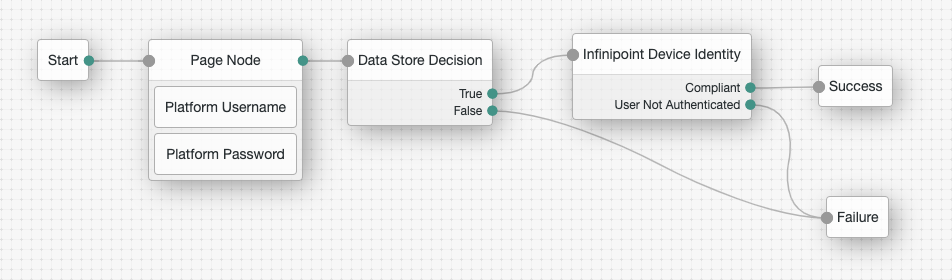
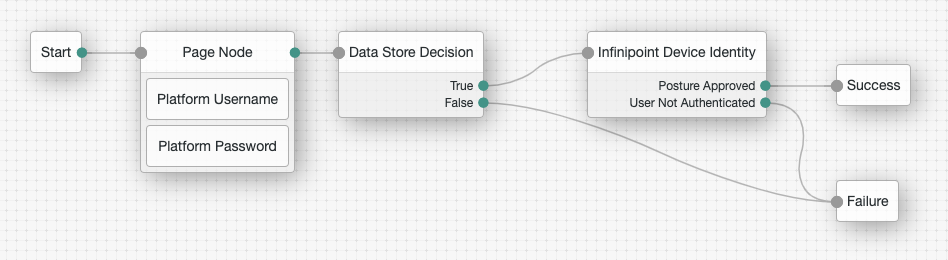
minor improvements

diff --git a/src/main/java/io/infinipoint/DIaaSAuthNode/InfinipointDIaaS.java b/src/main/java/io/infinipoint/DIaaSAuthNode/InfinipointDIaaS.java
@@ -17,60 +17,31 @@
 
 package io.infinipoint.DIaaSAuthNode;
 
-import static java.util.Collections.singleton;
-import static java.util.Collections.singletonList;
-import static java.util.Collections.singletonMap;
-import static org.forgerock.json.JsonValue.field;
-import static org.forgerock.json.JsonValue.json;
-import static org.forgerock.json.JsonValue.object;
-import static org.forgerock.oauth.OAuthClientConfiguration.PROVIDER;
-import static org.forgerock.oauth.clients.oauth2.OAuth2Client.DATA;
-import static org.forgerock.oauth.clients.oauth2.OAuth2Client.LANDING_PAGE;
-import static org.forgerock.oauth.clients.oauth2.OAuth2Client.PKCE_CODE_VERIFIER;
-import static org.forgerock.oauth.clients.oauth2.OAuth2Client.STATE;
-import static org.forgerock.oauth.clients.oidc.OpenIDConnectClient.NONCE;
-import static org.forgerock.openam.auth.node.api.Action.goTo;
-import static org.forgerock.openam.auth.node.api.Action.send;
-import static org.forgerock.openam.auth.node.api.SharedStateConstants.USERNAME;
-import static org.forgerock.openam.auth.nodes.oauth.SocialOAuth2Helper.DEFAULT_OAUTH2_SCOPE_DELIMITER;
-
-import java.io.IOException;
-import java.io.InputStream;
-import java.math.BigInteger;
-import java.net.MalformedURLException;
-import java.net.URI;
-import java.net.URISyntaxException;
-import java.net.URL;
-import java.security.SecureRandom;
-import java.util.Collections;
-import java.util.Date;
-import java.util.HashMap;
-import java.util.List;
-import java.util.Map;
-import java.util.Scanner;
-import java.util.Set;
-
-import javax.inject.Inject;
-
+import com.google.common.collect.ImmutableList;
+import com.google.inject.assistedinject.Assisted;
+import com.iplanet.am.util.SystemProperties;
+import com.nimbusds.oauth2.sdk.ResponseType;
+import com.nimbusds.oauth2.sdk.Scope;
+import com.nimbusds.oauth2.sdk.auth.Secret;
+import com.nimbusds.oauth2.sdk.client.ClientInformation;
+import com.nimbusds.oauth2.sdk.client.ClientMetadata;
+import com.nimbusds.oauth2.sdk.id.ClientID;
+import com.nimbusds.oauth2.sdk.id.State;
+import com.nimbusds.openid.connect.sdk.AuthenticationRequest;
+import com.nimbusds.openid.connect.sdk.Nonce;
+import com.sun.identity.authentication.spi.AuthLoginException;
+import com.sun.identity.authentication.spi.RedirectCallback;
+import com.sun.identity.shared.Constants;
+import com.sun.identity.sm.RequiredValueValidator;
 import org.apache.commons.lang.StringUtils;
-import org.apache.http.client.utils.URIBuilder;
 import org.forgerock.json.JsonValue;
 import org.forgerock.json.jose.jwt.JwtClaimsSet;
-import org.forgerock.oauth.DataStore;
-import org.forgerock.oauth.OAuthClient;
-import org.forgerock.oauth.OAuthClientConfiguration;
-import org.forgerock.oauth.OAuthException;
-import org.forgerock.oauth.UserInfo;
+import org.forgerock.oauth.*;
 import org.forgerock.oauth.clients.oauth2.PkceMethod;
 import org.forgerock.oauth.clients.oidc.OpenIDConnectClientConfiguration;
 import org.forgerock.oauth.clients.oidc.OpenIDConnectUserInfo;
 import org.forgerock.openam.annotations.sm.Attribute;
-import org.forgerock.openam.auth.node.api.Action;
-import org.forgerock.openam.auth.node.api.ExternalRequestContext;
-import org.forgerock.openam.auth.node.api.Node;
-import org.forgerock.openam.auth.node.api.NodeProcessException;
-import org.forgerock.openam.auth.node.api.OutcomeProvider;
-import org.forgerock.openam.auth.node.api.TreeContext;
+import org.forgerock.openam.auth.node.api.*;
 import org.forgerock.openam.auth.nodes.oauth.AbstractSocialAuthLoginNode;
 import org.forgerock.openam.auth.nodes.oauth.ProfileNormalizer;
 import org.forgerock.openam.auth.nodes.oauth.SharedStateAdaptor;
@@ -83,24 +54,21 @@ import org.forgerock.util.i18n.PreferredLocales;
 import org.slf4j.Logger;
 import org.slf4j.LoggerFactory;
 
-import com.google.common.collect.ImmutableList;
-import com.google.inject.assistedinject.Assisted;
-import com.iplanet.am.util.SystemProperties;
-import com.nimbusds.oauth2.sdk.ParseException;
-import com.nimbusds.oauth2.sdk.ResponseType;
-import com.nimbusds.oauth2.sdk.Scope;
-import com.nimbusds.oauth2.sdk.auth.Secret;
-import com.nimbusds.oauth2.sdk.client.ClientInformation;
-import com.nimbusds.oauth2.sdk.client.ClientMetadata;
-import com.nimbusds.oauth2.sdk.id.ClientID;
-import com.nimbusds.oauth2.sdk.id.State;
-import com.nimbusds.openid.connect.sdk.AuthenticationRequest;
-import com.nimbusds.openid.connect.sdk.Nonce;
-import com.nimbusds.openid.connect.sdk.op.OIDCProviderMetadata;
-import com.sun.identity.authentication.spi.AuthLoginException;
-import com.sun.identity.authentication.spi.RedirectCallback;
-import com.sun.identity.shared.Constants;
-import com.sun.identity.sm.RequiredValueValidator;
+import javax.inject.Inject;
+import java.math.BigInteger;
+import java.net.URI;
+import java.net.URISyntaxException;
+import java.security.SecureRandom;
+import java.util.*;
+
+import static java.util.Collections.*;
+import static org.forgerock.oauth.OAuthClientConfiguration.PROVIDER;
+import static org.forgerock.oauth.clients.oauth2.OAuth2Client.*;
+import static org.forgerock.oauth.clients.oidc.OpenIDConnectClient.NONCE;
+import static org.forgerock.openam.auth.node.api.Action.goTo;
+import static org.forgerock.openam.auth.node.api.Action.send;
+import static org.forgerock.openam.auth.node.api.SharedStateConstants.USERNAME;
+import static org.forgerock.openam.auth.nodes.oauth.SocialOAuth2Helper.DEFAULT_OAUTH2_SCOPE_DELIMITER;
 
 @Node.Metadata(outcomeProvider = InfinipointDIaaS.InfinipointComplianceOutcomeProvider.class,
         configClass = InfinipointDIaaS.Config.class, tags = {"contextual"})
@@ -131,13 +99,13 @@ public class InfinipointDIaaS implements Node {
 
         public List<Outcome> getOutcomes(PreferredLocales locales, JsonValue nodeAttributes) {
             return ImmutableList.of(
-                    new Outcome(InfinipointComplianceOutcome.COMPLIANT.name(), "Compliant"),
+                    new Outcome(InfinipointComplianceOutcome.POSTURE_APPROVED.name(), "Posture Approved"),
                     new Outcome(InfinipointComplianceOutcome.USER_NOT_AUTHENTICATED.name(), "User Not Authenticated"));
         }
     }
 
     public enum InfinipointComplianceOutcome {
-        COMPLIANT,
+        POSTURE_APPROVED,
         USER_NOT_AUTHENTICATED;
 
         InfinipointComplianceOutcome() {
@@ -219,6 +187,11 @@ public class InfinipointDIaaS implements Node {
         default String redirectURI() {
             return getServerURL();
         }
+
+        @Attribute(order = 500)
+        default boolean saveUserAttributesToSession() {
+            return false;
+        }
     }
 
 
@@ -275,11 +248,10 @@ public class InfinipointDIaaS implements Node {
             OAUTHConfig oauthConfig = new OAUTHConfig(config.clientId());
             attributes = profileNormalizer.getNormalisedAttributes(userInfo, getJwtClaims(userInfo), oauthConfig);
 
-            //TODO Is there any situation where the device isn't compliant after redirect back from Infinipoint?
-            Action.ActionBuilder action = goTo(InfinipointComplianceOutcome.COMPLIANT.name()).replaceSharedState(context.sharedState);
-            //TODO Attributes returned from infinipoint should be stored in sharedState for downstream nodes to consume (use the device ID to call infinipoint APIs)
-            //TODO Node should have configuration boolean of whether to promote attribute to session properties for other applications to consume
-            attributes.forEach((key, value) -> action.putSessionProperty(key, value.stream().findFirst().get()));
+            Action.ActionBuilder action = goTo(InfinipointComplianceOutcome.POSTURE_APPROVED.name()).replaceSharedState(context.sharedState);
+            if (config.saveUserAttributesToSession()) {
+                attributes.forEach((key, value) -> action.putSessionProperty(key, value.stream().findFirst().get()));
+            }
 
             return action.build();
         } catch (AuthLoginException e) {
@@ -316,78 +288,30 @@ public class InfinipointDIaaS implements Node {
         return ((OpenIDConnectUserInfo) userInfo).getJwtClaimsSet();
     }
 
-    private String oidcProviderConfigUrl() {
-        return INFINIPOINT_SERVER + "/auth/realms/" + config.realmId() + "/.well-known/openid-configuration";
-    }
-
-    //TODO Remove dynamic discovery because configuration is static
-    private OIDCProviderMetadata discoverIssuer() throws NodeProcessException {
-        URL providerConfigurationURL;
-        try {
-            providerConfigurationURL = new URIBuilder(oidcProviderConfigUrl())
-                    .addParameter("client_id", config.clientId())
-                    .build().toURL();
-        } catch (MalformedURLException | URISyntaxException e) {
-            throw new NodeProcessException("Malformed OIDC provider config URI", e);
-        }
-
-        InputStream stream;
-        try {
-            stream = providerConfigurationURL.openStream();
-        } catch (IOException e) {
-            throw new NodeProcessException("Unable to connect to provider discovery URI", e);
-        }
-        String providerInfo;
-        try (Scanner s = new java.util.Scanner(stream)) {
-            providerInfo = s.useDelimiter("\\A").hasNext() ? s.next() : "";
-        }
-
-        OIDCProviderMetadata providerMetadata;
-        try {
-            providerMetadata = OIDCProviderMetadata.parse(providerInfo);
-        } catch (ParseException e) {
-            throw new NodeProcessException("Unable to parse issuer discovery response: " + e.getMessage());
-        }
-        return providerMetadata;
-    }
-
     private Action handleAuthorizationRequest(ExternalRequestContext request, JsonValue sharedState)
             throws NodeProcessException {
 
-        //TODO URLs should be statically defined in configuration to save round trip call per user authentication
-        OIDCProviderMetadata providerMetadata = discoverIssuer();
-        sharedState.put(INFINIPOINT_AUTHORIZATION_ENDPOINT, providerMetadata.getAuthorizationEndpointURI());
-        sharedState.put(INFINIPOINT_TOKEN_ENDPOINT, providerMetadata.getTokenEndpointURI());
-        sharedState.put(INFINIPOINT_USERINFO_ENDPOINT, providerMetadata.getUserInfoEndpointURI());
-        sharedState.put(INFINIPOINT_JWK_ENDPOINT, providerMetadata.getJWKSetURI().toString());
-        sharedState.put(INFINIPOINT_ISSUER, providerMetadata.getIssuer().toString());
+        sharedState.put(INFINIPOINT_AUTHORIZATION_ENDPOINT, getAuthEndpointURI());
+        sharedState.put(INFINIPOINT_TOKEN_ENDPOINT, getTokenEndpoint());
+        sharedState.put(INFINIPOINT_USERINFO_ENDPOINT, getUserInfoEndpoint());
+        sharedState.put(INFINIPOINT_JWK_ENDPOINT, getJwkEndpoint());
+        sharedState.put(INFINIPOINT_ISSUER, getIssuer());
 
         ClientInformation clientInformation = getClientInformation();
 
         State authRequestState = new State();
         sharedState.put("state", authRequestState.getValue());
 
-        //TODO No need to add PKCEVerifier while also using client secret
         final String nonce = new BigInteger(160, random).toString(Character.MAX_RADIX);
         byte[] pkceVerifier = new byte[32];
         random.nextBytes(pkceVerifier);
 
-        final JsonValue authRequestDetails = json(object(
-                field(PROVIDER, INFINIPOINT_PROVIDER),
-                field(STATE, authRequestState.getValue()),
-                field(NONCE, nonce),
-                field(DATA, null),
-                field(LANDING_PAGE, null),
-                field(PKCE_CODE_VERIFIER, Base64url.encode(pkceVerifier))));
-
-        //TODO Why is sharedState being converted to Datastore then back to JsonValue? Instead just add authRequestDetails to sharedState
-        DataStore dataStore = SharedStateAdaptor.toDatastore(json(sharedState));
-        try {
-            dataStore.storeData(authRequestDetails);
-        } catch (OAuthException e) {
-            throw new NodeProcessException(e);
-        }
-        sharedState = SharedStateAdaptor.fromDatastore(dataStore);
+        sharedState.put(PROVIDER, INFINIPOINT_PROVIDER);
+        sharedState.put(STATE, authRequestState.getValue());
+        sharedState.put(NONCE, nonce);
+        sharedState.put(DATA, null);
+        sharedState.put(LANDING_PAGE, null);
+        sharedState.put(PKCE_CODE_VERIFIER, Base64url.encode(pkceVerifier));
 
         URI redirectURI;
         try {
@@ -396,14 +320,10 @@ public class InfinipointDIaaS implements Node {
             throw new NodeProcessException("Malformed redirect URI");
         }
 
-        //TODO AuthenticationRequest.Builder uses effective scopes while the OpenIDConnectClientConfiguration uses VALID_SCOPES_STRING
-        Scope effectiveScopes = providerMetadata.getScopes();
-        effectiveScopes.retainAll(Scope.parse(VALID_SCOPES_STRING));
-
         AuthenticationRequest.Builder authenticationRequestBuilder = new AuthenticationRequest.Builder(
                 new ResponseType(ResponseType.Value.CODE),
-                effectiveScopes, clientInformation.getID(), redirectURI)
-                .endpointURI(providerMetadata.getAuthorizationEndpointURI())
+                Scope.parse(VALID_SCOPES_STRING), clientInformation.getID(), redirectURI)
+                .endpointURI(getAuthEndpointURI())
                 .state(authRequestState).nonce(new Nonce(nonce));
 
         authenticationRequestBuilder = authenticationRequestBuilder.customParameter("login_hint",
@@ -437,6 +357,29 @@ public class InfinipointDIaaS implements Node {
                 .build();
     }
 
+    private URI getAuthEndpointURI() {
+        try {
+            return new URI(String.format("%s/auth/realms/%s/protocol/openid-connect/auth", INFINIPOINT_SERVER, this.config.realmId()));
+        } catch (URISyntaxException ignore) {}
+
+        return null;
+    }
+
+    private String getTokenEndpoint() {
+        return String.format("%s/auth/realms/%s/protocol/openid-connect/token", INFINIPOINT_SERVER, this.config.realmId());
+    }
+
+    private String getUserInfoEndpoint() {
+        return String.format("%s/auth/realms/%s/protocol/openid-connect/userinfo", INFINIPOINT_SERVER, this.config.realmId());
+    }
+
+    private String getJwkEndpoint() {
+        return String.format("%s/auth/realms/%s/protocol/openid-connect/certs", INFINIPOINT_SERVER, this.config.realmId());
+    }
+
+    private String getIssuer() {
+        return String.format("%s/auth/realms/%s", INFINIPOINT_SERVER, this.config.realmId());
+    }
 
     /**
      * build Nimbus ClientInformation that contains the client ID and secret

diff --git a/README.md b/README.md
@@ -46,11 +46,17 @@ To configure the node, copy 'Client ID', 'Client Secret' and 'Realm Alias' from 
 
 ![ScreenShot](./images/config.png)
 
+When redirected to Infinipoint, device posture is checked and presented to user:
 
-**TODO** 
-* Include Screenshots of end user screens when redirect to Infinipoint
-* Include a list of attributes that downstream nodes have access to in sharedState to query additional information 
-  about the use'rs device from infinipoint
+![ScreenShot](./images/issues.png)
+In case of no issues found or device posture approved:
+
+![ScreenShot](./images/approved.png)
+
+
+**Downstream Nodes Attributes**
+
+This plugin doesn't set any special attributes for downstream nodes.
 
 
 
